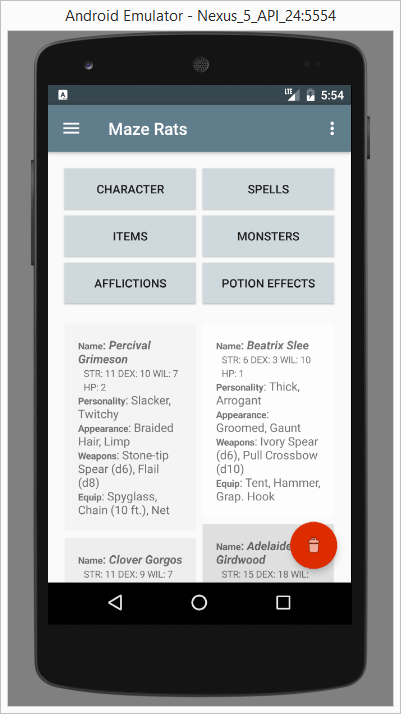
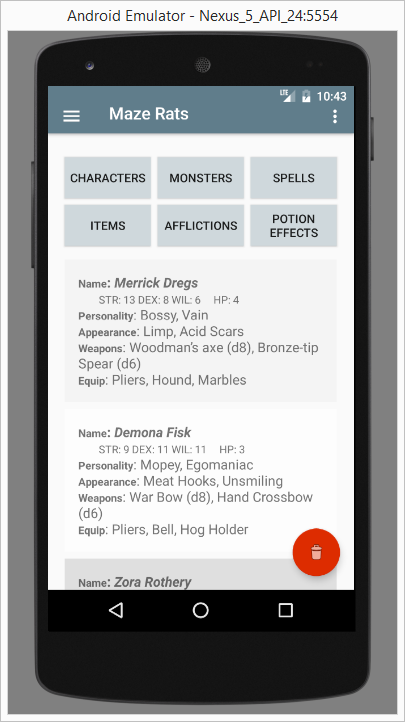
update docs & screenshots

Changed region(s): [[0.1197, 0.0924, 0.8978, 0.8627], [0.5087, 0.0, 0.8379, 0.0308], [0.1496, 0.0, 0.4489, 0.0308]]

diff --git a/README.md b/README.md
@@ -1,14 +1,12 @@
-# RPG-Boy 2000
+# RPG-Pad
 
 ## Overview
 
 [![Build status](https://circleci.com/gh/stevesea/RPGpad.svg?&style=shield&circle-token=d5b638c2be4157b4b3bdd347bd139c392968d7db)](https://circleci.com/gh/stevesea/RPGpad)
 [![Build Status](https://travis-ci.org/stevesea/RPGpad.svg?branch=master)](https://travis-ci.org/stevesea/RPGpad)
 
-This is an Android/Groovy application for randomly generating various
-things for tabletop RPGs (names, spells, items, monsters, etc). The
-content for this application was taken with permission from the following
-sources:
+This is an Android application which randomly generates configurable things for tabletop RPGs
+(names, spells, items, monsters, etc). The application uses content produced by the following individuals:
 
 * Perilous Wilds, by Jason Lutes. http://lampblackandbrimstone.blogspot.com/
 * Freebooters on the Frontier, by Jason Lutes. http://lampblackandbrimstone.blogspot.com/
@@ -17,11 +15,12 @@ sources:
 
 ## Screenshots
 
+![alt text](https://github.com/stevesea/RPGpad/raw/master/docs/images/initial_screen.png "The initial screen")
 ![alt text](https://github.com/stevesea/RPGpad/raw/master/docs/images/nav_drawer.png "Sliding nav bar, acknowledgements")
 
 ![alt text](https://github.com/stevesea/RPGpad/raw/master/docs/images/mr_chars.png "Maze Rats - characters")
-
 ![alt text](https://github.com/stevesea/RPGpad/raw/master/docs/images/mr_monsters.png "Maze Rats - monsters")
+![alt text](https://github.com/stevesea/RPGpad/raw/master/docs/images/mr_spells.png "Maze Rats - spells")
 
 ## Other random generators with the same/similar content
 
